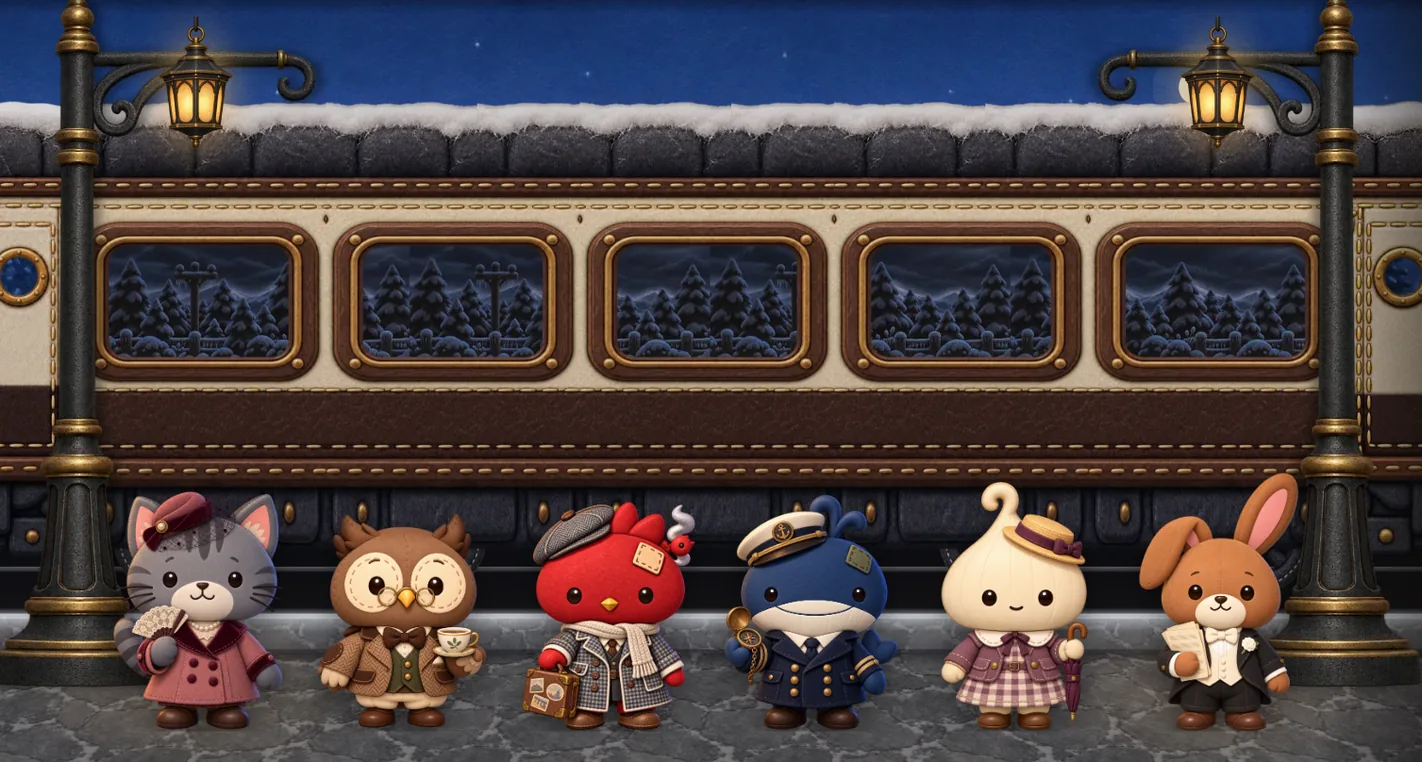
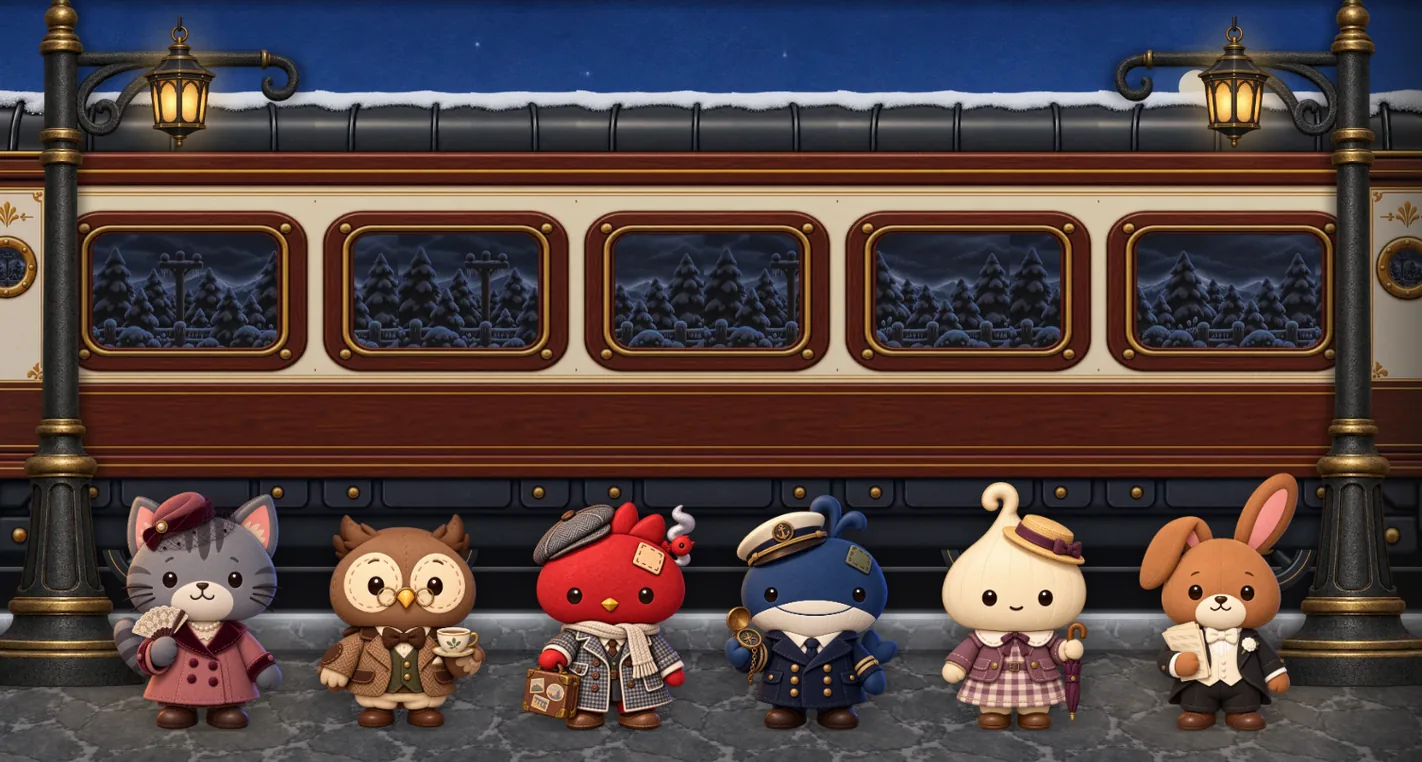
feat(station): the train is a wooden toy, joined from the owner's new pieces (owner, 2026-10-18)
fit_felt_station.py reads a set by name (`SET = 'wood'`; the felt set's numbers kept beside it):
the bay warped onto the ends' bands with the top rail's gold line held to theirs, the bay's
one-tier chassis unstretched over the ends' lower tier (its bolts stay round), the doors'
portholes filled with the night country, the empty rows above the roof cut. 4201×673 (the felt
train 4160×700), 340 KB (529). TRAIN_PX re-measured. The guide's platform picture re-baked.
Goldens: the four platform shots and the guide at both widths.

diff --git a/frontend/src/stage/paint/station.ts b/frontend/src/stage/paint/station.ts
@@ -25,20 +25,21 @@ import { STAGE_H, STAGE_W, geometry, type Hud } from '../units';
 import { STATION } from './materials';
 
 /**
- * The train picture's own geometry, in the pixels of its master: the owner's felt train (2026-10-17),
- * joined from its pieces by scripts/fit_felt_station.py, which prints these numbers.
+ * The train picture's own geometry, in the pixels of its master: the owner's wooden toy train
+ * (2026-10-18; felt before it), joined from its pieces by scripts/fit_felt_station.py, which
+ * prints these numbers.
  */
 const TRAIN_PX = {
-  w: 8404,
-  h: 1415,
+  w: 8260,
+  h: 1323,
   /** The dining car's window, left to right and top to bottom. */
-  wx0: 2587,
-  wx1: 5787,
-  wy0: 482,
-  wy1: 778,
+  wx0: 2523,
+  wx1: 5723,
+  wy0: 383,
+  wy1: 676,
   /** The roof's snow line and the wheels' foot. */
-  snow: 102,
-  bottom: 1411,
+  snow: 45,
+  bottom: 1319,
   /** The dining car's five windows: the first's left edge is `wx0`; each this wide, this far apart. */
   windows: 5,
   windowW: 480,

diff --git a/frontend/scripts/fit_felt_station.py b/frontend/scripts/fit_felt_station.py
@@ -1,6 +1,7 @@
-"""One-off: the station's felt train (owner, 2026-10-17), joined from the owner's pieces.
+"""One-off: the station's train, joined from the owner's pieces: felt (2026-10-17), then a wooden
+toy, walnut and cream with brass (2026-10-18, `SET`; the felt set's numbers are kept beside it).
 
-Reads claude_artifacts/design/rasters/felt/station/ (train_back = a car's left end, train_front its
+Reads claude_artifacts/design/rasters/<SET>/station/ (train_back = a car's left end, train_front its
 right end, train_center a window bay, train_connector the bellows, train_wheel) and writes the
 master `train.png` beside them, plus the WebP files the build ships (src/assets/sprites/station/
 train.webp at about 1.5 px a unit and train@1x.webp at 1), and prints the geometry station.ts
@@ -21,21 +22,50 @@ import numpy as np
 from PIL import Image
 
 ROOT = Path(__file__).resolve().parent.parent
-SRC = ROOT / 'claude_artifacts/design/rasters/felt/station'
+SET = 'wood'
+SRC = ROOT / f'claude_artifacts/design/rasters/{SET}/station'
+FELT = ROOT / 'claude_artifacts/design/rasters/felt/station'
 OUT = ROOT / 'src/assets/sprites/station'
 
-# the bands' tops down a plain column: snow, top rail, cream panel, brown panel, bottom rail,
-# chassis, and the foot; the bay's, and the ends' it is warped onto
-BAY_ROWS = [84, 144, 324, 378, 960, 1140, 1224, 1320]
-END_ROWS = [42, 102, 300, 360, 864, 1020, 1110, 1302]
-# the bay's window hole and the straight run of its frame (columns), in its own pixels
-HOLE = (258, 865)
-STRAIGHT = (430, 690)
-# what is kept of each piece across: the bay without most of its outer cream, the ends without
-# the plain panel on their inner side (the door, the post and the buffer kept)
-BAY_KEEP = (150, 975)
-BACK_KEEP = (100, 600)  # the left end: buffer, post, door
-FRONT_KEEP = (520, 1050)  # the right end: door, post, buffer
+# Each set's measurements, in its pieces' own pixels:
+# - rows: the bands' tops down a plain column (the snow's top, the roof, the top rail, the cream
+#   panel, the brown panel, the bottom rail, the chassis, and the foot); the bay's, and the ends'
+#   it is warped onto
+# - hole: the bay's window hole, and straight: the straight run of its frame (columns)
+# - keep: what is kept of each piece across: the bay without most of its outer cream (the corner
+#   ornaments too), the ends without the plain panel on their inner side (the door, the post and
+#   the buffer kept)
+# - wheel: the wheel's crop (rows, columns), so the rim comes out the same size
+# - lines: more rows of the bay held to the ends' (bay row, end row), so a gold line meets its own
+# - under: a strip of an end's own chassis (rows, columns) laid under the bay, when the bay's
+#   chassis is one tier and the ends' two: the bay's tier is then held to the upper one, unstretched
+#   (its brass bolts stay round), the foot in `rows` being where the bay's chassis stops
+GEOMETRY = {
+    'felt': dict(
+        bay_rows=[84, 144, 324, 378, 960, 1140, 1224, 1320],
+        end_rows=[42, 102, 300, 360, 864, 1020, 1110, 1302],
+        hole=(258, 865), straight=(430, 690),
+        bay_keep=(150, 975), back_keep=(100, 600), front_keep=(520, 1050),
+        wheel=((60, 1200), (120, 1135)),
+        lines=[],
+        under=None,
+    ),
+    'wood': dict(
+        bay_rows=[131, 190, 309, 376, 970, 1140, 1226, 1318],
+        end_rows=[97, 138, 260, 356, 862, 1026, 1106, 1198],
+        hole=(257, 866), straight=(430, 690),
+        bay_keep=(150, 975), back_keep=(100, 584), front_keep=(552, 1050),
+        wheel=((60, 1200), (130, 1123)),
+        lines=[(338, 311)],  # the top rail's gold line
+        under=((1194, 1302), (620, 980)),
+    ),
+}
+_g = GEOMETRY[SET]
+BAY_ROWS, END_ROWS = _g['bay_rows'], _g['end_rows']
+HOLE, STRAIGHT = _g['hole'], _g['straight']
+BAY_KEEP, BACK_KEEP, FRONT_KEEP = _g['bay_keep'], _g['back_keep'], _g['front_keep']
+WHEEL_ROWS, WHEEL_COLS = _g['wheel']
+LINES, UNDER = _g['lines'], _g['under']
 H = 1402
 # the dining car's windows: how many, each one's width, and the cream either side of each
 DINING_WINDOWS = 5
@@ -119,6 +149,36 @@ def light_hole(a: np.ndarray, x0: int, x1: int, rows: tuple[int, int], offset: i
     return out
 
 
+def light_portholes(a: np.ndarray) -> np.ndarray:
+    """Every see-through hole inside a piece (a door's porthole) filled as a window is, so the
+    sky never shows through the car."""
+    from scipy import ndimage
+
+    clear = a[..., 3] < 128
+    lab, n = ndimage.label(clear)
+    edge = set(np.unique(np.concatenate([lab[0], lab[-1], lab[:, 0], lab[:, -1]])))
+    out = a
+    for i, box in enumerate(ndimage.find_objects(lab), 1):
+        if i in edge:
+            continue
+        ys, xs = box
+        out = light_hole(out, xs.start - 3, xs.stop + 3, (ys.start - 3, ys.stop + 3), 300 * i)
+    return out
+
+
+def with_under(middle: np.ndarray) -> np.ndarray:
+    """The bay over the ends' lower chassis tier, mirror-tiled to its width (`UNDER`)."""
+    if not UNDER:
+        return middle
+    (y0, y1), (x0, x1) = UNDER
+    tier = rgba('train_back')[y0:y1, x0:x1]
+    strip = stretch_cols(tier, 0, tier.shape[1], middle.shape[1])[:, : middle.shape[1]]
+    out = np.zeros_like(middle)
+    place(out, strip, 0, y0)
+    place(out, middle, 0)
+    return out
+
+
 def hole_rows(a: np.ndarray, x: int) -> tuple[int, int]:
     col = a[:, x, 3]
     ys = np.nonzero(col[300:1100] < 128)[0] + 300
@@ -145,10 +205,11 @@ def scaled(a: np.ndarray, k: float) -> np.ndarray:
 
 
 def main() -> None:
-    bay = warp_rows(rgba('train_center'), BAY_ROWS, END_ROWS, H)
+    knots = sorted([*zip(BAY_ROWS, END_ROWS), *LINES])
+    bay = warp_rows(rgba('train_center'), [b for b, _ in knots], [e for _, e in knots], H)
     rows = hole_rows(bay, (HOLE[0] + HOLE[1]) // 2)
-    back = rgba('train_back')[:, BACK_KEEP[0] : BACK_KEEP[1]]
-    front = rgba('train_front')[:, FRONT_KEEP[0] : FRONT_KEEP[1]]
+    back = light_portholes(rgba('train_back')[:, BACK_KEEP[0] : BACK_KEEP[1]])
+    front = light_portholes(rgba('train_front')[:, FRONT_KEEP[0] : FRONT_KEEP[1]])
     short = light_hole(bay, HOLE[0], HOLE[1], rows, 900)[:, BAY_KEEP[0] : BAY_KEEP[1]]
     # the dining car: five of the bay side by side, each window narrowed along its straight run
     # and the cream between them trimmed, so the five span about the room's places (owner,
@@ -173,13 +234,13 @@ def main() -> None:
         place(c, front, w - front.shape[1])
         return c
 
-    side, dining = car(short), car(longbay)
+    side, dining = car(with_under(short)), car(with_under(longbay))
     # the bellows between cars: their snow at the roof's snow, their foot on the bottom rail
     conn = rgba('train_connector')
     cs = (END_ROWS[6] - END_ROWS[1] - 60) / (1455 - 55)
     conn = scaled(conn[55:1456, 76:950], cs)
     gap = 150  # buffer to buffer; the bellows behind, between the cars' ends
-    wheel = rgba('train_wheel')[60:1200, 120:1135]
+    wheel = rgba('train_wheel')[WHEEL_ROWS[0] : WHEEL_ROWS[1], WHEEL_COLS[0] : WHEEL_COLS[1]]
     wheel = scaled(wheel, 300 / wheel.shape[1])
 
     cars = [side, dining, side]
@@ -199,17 +260,19 @@ def main() -> None:
         place(train, c, x0)
     a = train[..., 3]
     ys = np.nonzero(a.max(1) > 10)[0]
-    train = train[: ys.max() + 4]
+    # the empty rows above the snow and below the wheels are cut (no pixels drawn for nothing)
+    top = max(int(ys.min()) - 4, 0)
+    train = train[top : ys.max() + 4]
     # the glass the places sit in: the first window's left edge to the last one's right
     win_x0 = starts[1] + back.shape[1] - 6 + DINING_PANEL
     win_x1 = starts[1] + back.shape[1] - 6 + longbay.shape[1] - DINING_PANEL
     master = Image.fromarray(train.clip(0, 255).round().astype(np.uint8), 'RGBA')
     master.save(SRC / 'train.png')
-    snow = END_ROWS[1]
-    bottom = int(ys.max())
+    snow = END_ROWS[1] - top
+    bottom = int(ys.max()) - top
     print('master', master.size)
     print('TRAIN_PX', dict(w=master.width, h=master.height, wx0=win_x0, wx1=win_x1,
-                           wy0=rows[0] + 6, wy1=rows[1] - 7, snow=snow, bottom=bottom))
+                           wy0=rows[0] + 6 - top, wy1=rows[1] - 7 - top, snow=snow, bottom=bottom))
     # the shipped copies: units a master px is CAR_H (432) over the snow-to-foot height
     k = 432 / (bottom - snow)
     for name, density in (('train.webp', 1.5), ('train@1x.webp', 1.0)):
@@ -222,7 +285,7 @@ def main() -> None:
 def beam() -> None:
     """The beam along the top and the ledge along the foot: the owner's walnut felt, a tile that
     meets itself on every side (its edges cross-faded into the opposite ones), 512 px square."""
-    a = np.asarray(Image.open(SRC / 'wood_felt.png').convert('RGB')).astype(float)
+    a = np.asarray(Image.open(FELT / 'wood_felt.png').convert('RGB')).astype(float)
     n, b = a.shape[0], 96
     k = np.linspace(0, 1, b)
     a = a.copy()
@@ -252,5 +315,5 @@ def floor() -> None:
 
 if __name__ == '__main__':
     main()
-    beam()
-    floor()
+    # the beam and the floor are as the felt set made them (2026-10-17); call beam() and floor() to
+    # remake them

diff --git a/frontend/docs/stage_architecture.md b/frontend/docs/stage_architecture.md
@@ -355,7 +355,11 @@ anything that shows state is drawn over the sprite in vector, never baked in.
   with a hem rod and brass ring (`PAINTED_SHUTTER`; raised, the rod hangs half under the pelmet).
   The place cards are printed paper tacked with two brass tacks, in the display serif (the house's
   facts are paper). Mobile cost: the props' decoded memory fell 20.1 → 18.1 MiB; nothing new moves.
-  The landing's carriage is the same felt (Carriage.module.css `.paint`, a cream picture per screen).
+  The landing's carriage and the station's train are a wooden toy (owner, 2026-10-18: walnut, cream
+  panels, brass, a snowy roof; masters in `claude_artifacts/design/rasters/wood/`): the carriage one
+  picture per screen (Carriage.module.css `.paint`, `SPRITES.carriage.whole`/`wholePhone`), the
+  train joined from its pieces by `scripts/fit_felt_station.py` (`SET = 'wood'`; the felt set's
+  numbers kept beside it), within the felt train's pixels.
 - The painted props (ruled 2026-09-27, the polish pass): the jar's glass and lid, the stand's front
   and the vote's table are the owner's rasters, `SPRITES.props.{jarGlass,jarLid,stand,voteTable}`,
   replacing their vector bodies (plates, cards, chips, strings, footlights and plaque stay vector).
